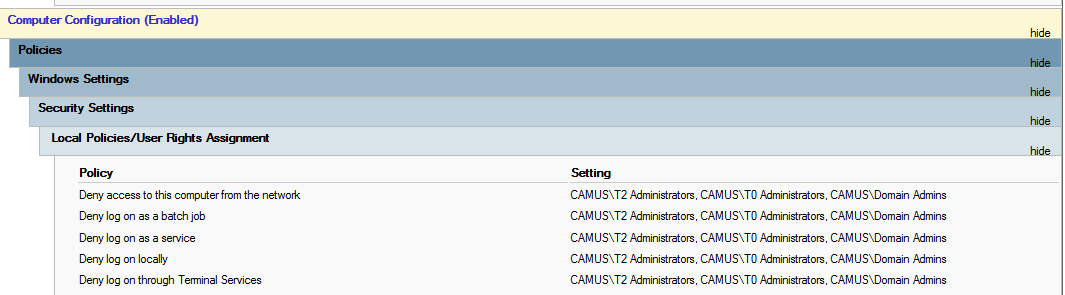
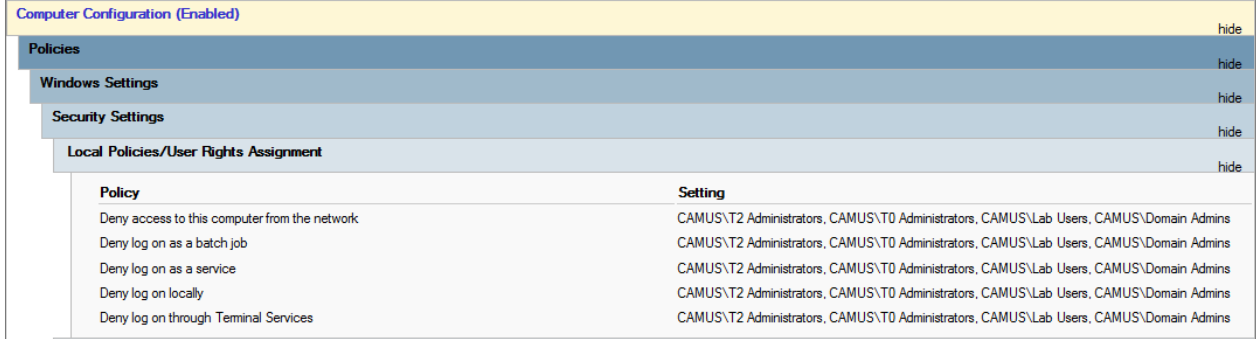
17/02-Update content

Changed region(s): [[0.0, 0.0, 1.0, 1.0]]

diff --git a/content/posts/Implement a Tiered AD Model/index.md b/content/posts/Implement a Tiered AD Model/index.md
@@ -20,24 +20,25 @@ The tiered AD model is one that categorises assets based on criticality. Tiers a
 ## How?
 ### Segment Tiers
 #### Tier 0: 
-Tier 0 should consist of the most business critical and important assets. *SpectreOps* has a [guide](https://specterops.github.io/TierZeroTable/) to help identify what should go in tier 0. Common assets include:
+Tier 0 should consist of the most business critical and important assets. *SpectreOps* has a good starting [guide](https://specterops.github.io/TierZeroTable/) to help identify what should go in tier 0. Common assets include:
 - Domain Controllers
 - Domain Administrators
 #### Tier 1: 
 Tier 1 typically consists of less critical business resources, including:
 - Application servers
 - File servers
-- Application administrators
+- Server & application administrators
 #### Tier 2: 
 Tier 2 is where end-users and devices are placed. This includes:
 - Standard user accounts
-- Staff laptops
+- Workstations
+- Workstation admins (Local Admins / IT Support)
 ### Enforce Segregation of Tiers
 #### GPO:
-Configure the following location - *Computer Configuration > Windows Settings > Security Settings > Local Policies > User Rights Assignment*, and configure these settings:
+Configure the following location - *Computer Configuration > Windows Settings > Security Settings > Local Policies > User Rights Assignment*, and configure these settings (exercise testing and caution):
 
 > [!info]- GPO
-> - Deny access to this computer from the network
+> - Deny access to this computer from the network 
 > - Deny log on as a batch job
 > - Deny log on as a service
 > - Deny log on locally
@@ -45,6 +46,7 @@ Configure the following location - *Computer Configuration > Windows Settings > 
 
 ##### Tier 0 GPO:
 - Deny Tier 1 and 2 users
+![tier0.png](images/tier0.png "Tier 0")
 ##### Tier 1 GPO:
 - Deny Tier 0 and 2 users
 ![tier1.png](images/tier1.png "Tier 1")
@@ -65,11 +67,11 @@ When a user authenticates, Windows creates a logon session in Local Security Aut
 ### In action
 So back to our scenario, Ringo has local admin on his laptop and John has Domain Administrator. The attacker has already compromised the laptop and Ringo's account and has remote access. 
 
-**Step 1**. They use a free tool called *mimikatz* to dump the credential material in memory from LSASS.
-![alert.png](images/dump.png "Dumping the hash")
+**Step 1**. They use a free tool called *mimikatz* to dump the credential material of John's admin account in memory from LSASS.
+![dump.png](images/dump.png "Dumping the hash")
 
-**Step 2**.  Simply pass the NTLM hash, and voila, domain administrator privileges.
-![alert.png](images/winrm.png "Passing the hash")
+**Step 2**.  Using a exploit tool, successfully authenticate to the domain controller by passing the hash of John's admin account.
+![winrm.png](images/winrm.png "Passing the hash")
 
 
 

diff --git a/content/posts/CVE‑2025‑53770 SharePoint/index.md b/content/posts/CVE‑2025‑53770 SharePoint/index.md
@@ -17,7 +17,12 @@ Running for the clouds.
 ## What is the vulnerability?
 
 **CVE‑2025‑53770 | SharePoint vulnerability**
-<br>The vulnerability affects on-prem instances (2016, 2019, Subscription editions). It bypasses authentication by sending a header request to *ToolPane.aspx*, where the referrer is set to *SignOut.aspx*. Post-exploitation involves writing a payload to *spinstall0.aspx* which extracts cryptographic key material.
+<br>
+The vulnerability affects on-premises SharePoint Server installations (2016, 2019, and Subscription Edition). It has been actively exploited in the wild and is considered one of the most critical SharePoint vulnerabilities of all time.
+
+It allows attackers to bypass authentication by sending a specially crafted HTTP request to the **ToolPane.aspx** endpoint with the `Referer` header set to SignOut.aspx (the logout page). SharePoint’s request handling logic incorrectly treats this as part of a trusted, authenticated flow. Thus allowing the attacker to reach functionality that should be restricted.
+
+In observed attacks, threat actors upload a malicious file **spinstall0.aspx** to the server and use it to extract cryptographic key material such as the ASP.NET machine keys. These keys can then be used to forge valid authentication tokens, enabling persistence even after patches are applied.
 
 ## What is the alert?
 
@@ -116,7 +121,7 @@ Response.Write(cg.ValidationKey+"|"+cg.Validation+"|"+cg.DecryptionKey+"|"+cg.De
 ```
 "C:\Windows\System32\WindowsPowerShell\v1.0\powershell.exe" -Command "[System.Web.Configuration.MachineKeySection]::GetApplicationConfig()"
 ```
-- Use Powershell to gather Machine Key
+- Use Powershell to gather the Machine Key
 
 
 
